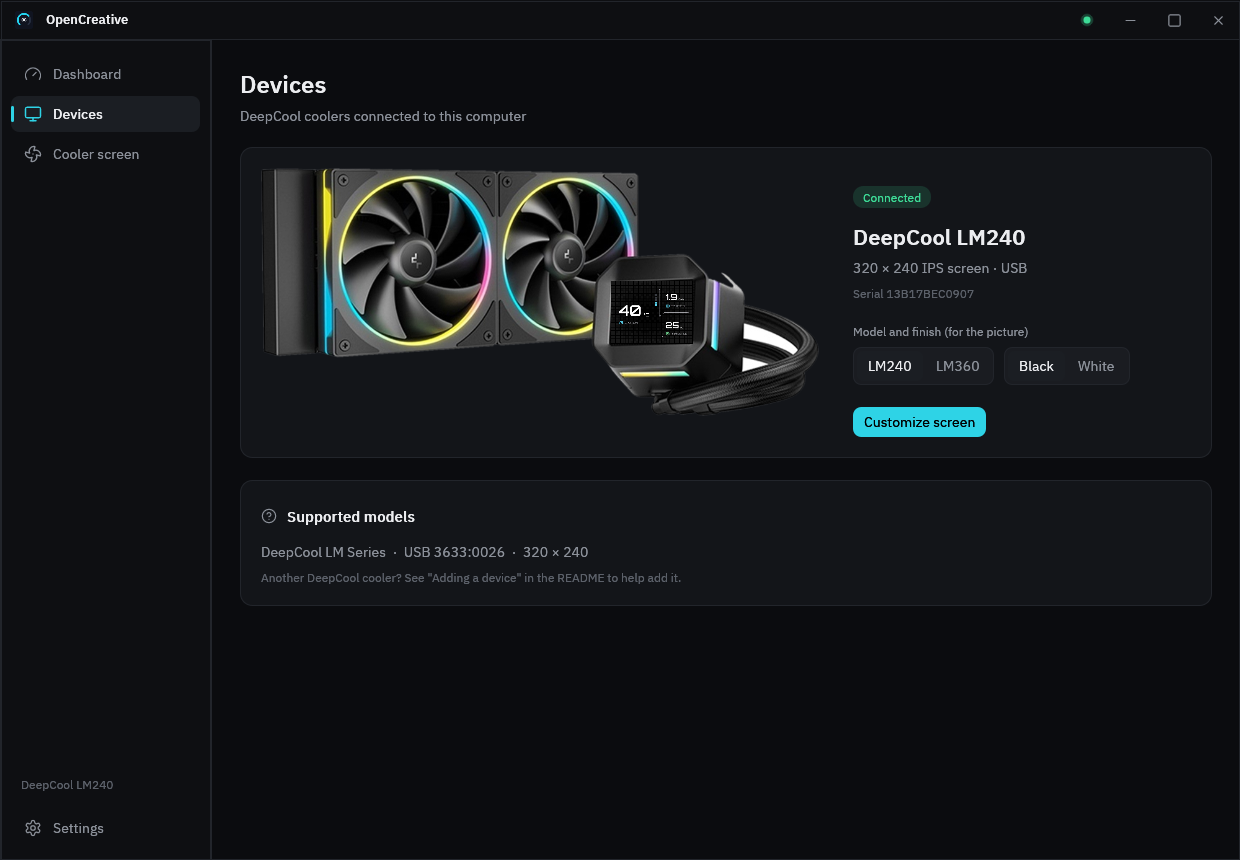
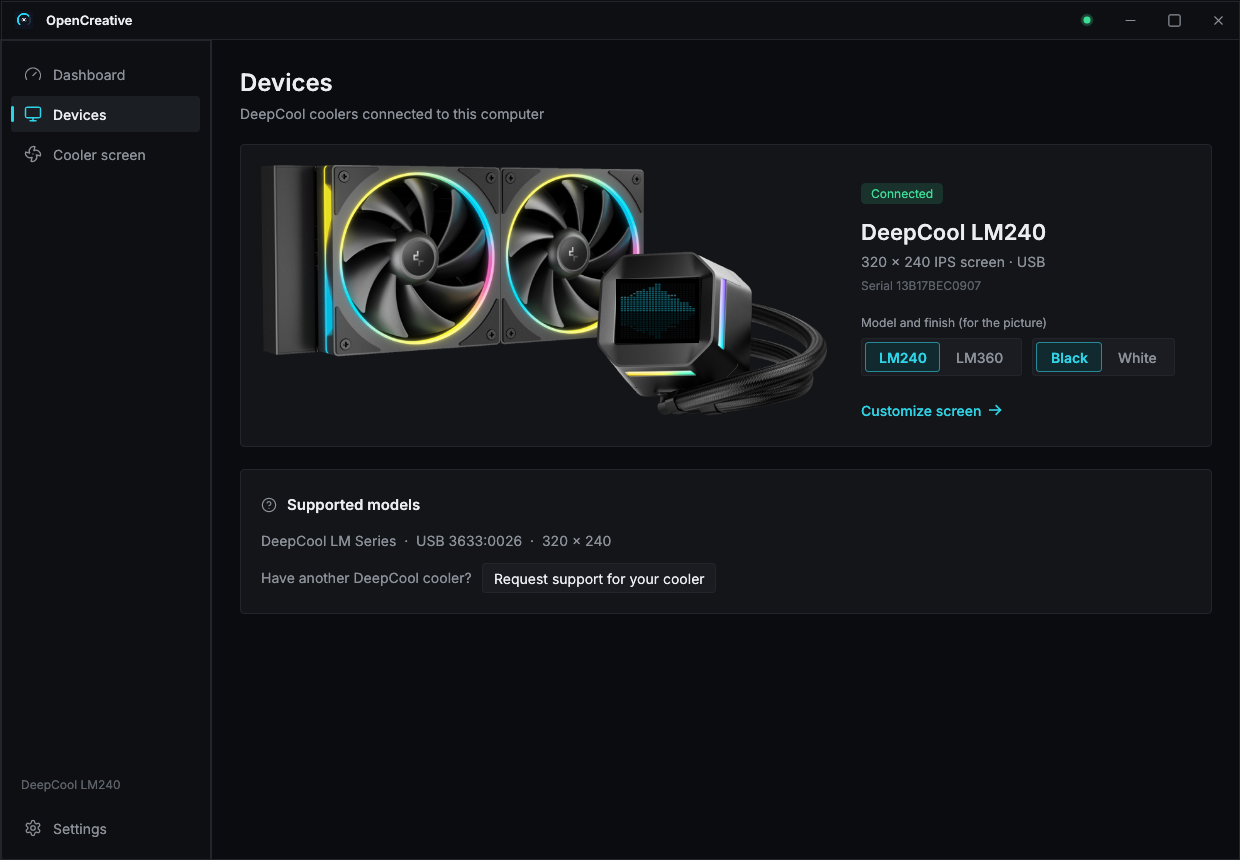
docs: README for v0.7.0, with new screenshots
- The editor (Studio layout) leads; Devices and Dashboard below it.
- New: the editor in the light theme, and a smaller window with the
  folded sidebar.
- "What it does" covers the editor, the top-bar menu's new quick actions
  and the folding sidebar, and names the modes as the app does (Live
  data, Pictures & video, Music).
- Zen mode is a calm clock, not a dark screen: fix that wording in the
  README and in the app's toolbar tooltip and caption. The Settings line
  for the top-bar icon lists its new actions.

diff --git a/crates/opencreative-gui/src/pages/device.rs b/crates/opencreative-gui/src/pages/device.rs
@@ -188,7 +188,7 @@ fn stage_content(app: &mut App, ui: &mut egui::Ui, mode: Mode, height: f32) {
         Mode::Music => "Bars that move with what's playing".to_owned(),
     };
     let caption = if app.zen {
-        "Zen mode: the screen is off".to_owned()
+        "Zen mode: a calm clock instead of your layout".to_owned()
     } else {
         caption
     };
@@ -267,7 +267,7 @@ fn toolbar(
                             Icon::Moon,
                             None,
                             app.zen,
-                            "Zen mode: turns the screen off, keeping your layout and brightness",
+                            "Zen mode: a calm, dim clock instead of your layout, which comes back when you turn it off",
                         );
                         if zen.clicked() {
                             app.set_zen(!app.zen);

diff --git a/crates/opencreative-gui/src/pages/settings.rs b/crates/opencreative-gui/src/pages/settings.rs
@@ -93,8 +93,8 @@ pub fn show(app: &mut App, ui: &mut egui::Ui) {
             setting_row(
                 ui,
                 "Show in the top bar",
-                "An OpenCreative icon next to the clock, to open this window or switch \
-                 the screen off, Zen mode and brightness without it.",
+                "An OpenCreative icon next to the clock, to open this window, or to \
+                 switch modes and looks, brightness, colors and rotation without it.",
                 |ui| {
                     let mut on = !app.applied.hide_tray;
                     if toggle(ui, &mut on).changed()

diff --git a/README.md b/README.md
@@ -11,11 +11,11 @@ alternative to DeepCool's Windows-only DeepCreative app.
 > by DeepCool. "DeepCool" and "DeepCreative" are trademarks of their owners.
 
 <p>
-  <img src="docs/screenshots/devices.png" alt="OpenCreative devices page: the cooler pictured with its live screen" width="100%">
+  <img src="docs/screenshots/device.png" alt="The cooler screen editor: the live preview on a stage, a floating toolbar, and the Customize panel for music bars" width="100%">
 </p>
 <p>
-  <img src="docs/screenshots/dashboard.png" alt="OpenCreative dashboard" width="49%">
-  <img src="docs/screenshots/device.png" alt="OpenCreative cooler screen settings" width="49%">
+  <img src="docs/screenshots/devices.png" alt="Devices page: the cooler pictured with its live screen" width="49%">
+  <img src="docs/screenshots/dashboard.png" alt="Dashboard: CPU, GPU, memory, storage and network" width="49%">
 </p>
 
 ## Install
@@ -52,23 +52,35 @@ new version by itself and keeps your settings.
 
 ## What it does
 
-- **Digital mode**: live readings on the cooler, one large and two small, of
+- **Live data**: live readings on the cooler, one large and two small, of
   your choice (CPU or GPU temperature, load, frequency, power, RAM), in three
   looks: **Lines**, **HUD** (with live charts) and **Gauges**. One-click
   presets cover the usual combinations.
-- **Multimedia mode**: playlists of **Images**, **GIFs**, **Videos** or
+- **Pictures & video**: playlists of **Images**, **GIFs**, **Videos** or
   **YouTube** links, each kind on its own tab, or a plain **Color**. Drop files
   on the window or use Browse. Drag the preview to move a picture and scroll to
   zoom. Select several items with Ctrl or Shift and press Delete.
-- **Music mode**: bars that move with whatever your speakers or headphones are
+- **Music**: bars that move with whatever your speakers or headphones are
   playing, rising or mirrored, in one color or a rainbow by pitch.
-- **Display**: brightness, rotation for any pump orientation, and Zen mode (a
-  calm clock).
-- **Your look**: dark or light theme, and a choice of app fonts (Inter,
-  Geist, Manrope, IBM Plex Sans).
+- **Display**: brightness, dark or light screen colors, rotation for any pump
+  orientation, and Zen mode (a calm, dim clock in place of your layout).
+- **The editor**: the cooler's screen on a stage of its own, with one toolbar
+  for the mode, brightness, Zen and rotation, and a **Customize** panel for
+  the details that slides away when you don't need it. The preview shows
+  exactly what's on the cooler, frame for frame, dimmed to its brightness.
+- **Top-bar menu**: switch between Live data, Pictures & video and Music,
+  pick a look, and set brightness, screen colors, rotation or Zen mode
+  without opening the window. Each mode comes back as you last left it.
+- **Your look**: dark or light theme, a choice of app fonts (Inter, Geist,
+  Manrope, IBM Plex Sans), and a sidebar that folds to icons on smaller
+  windows.
 - **Dashboard**: this computer's CPU, GPU, memory, storage and network at a
   glance, with a two-minute history.
-- The preview in the app shows exactly what's on the cooler, frame for frame.
+
+<p>
+  <img src="docs/screenshots/device-light.png" alt="The editor in the light theme" width="55%">
+  <img src="docs/screenshots/device-compact.png" alt="A smaller window: the sidebar folds to icons" width="44%">
+</p>
 
 <p>
   <img src="docs/screenshots/skin-lines.png" alt="Lines skin: three readings framed by thin lines over a tile grid" width="32%">
